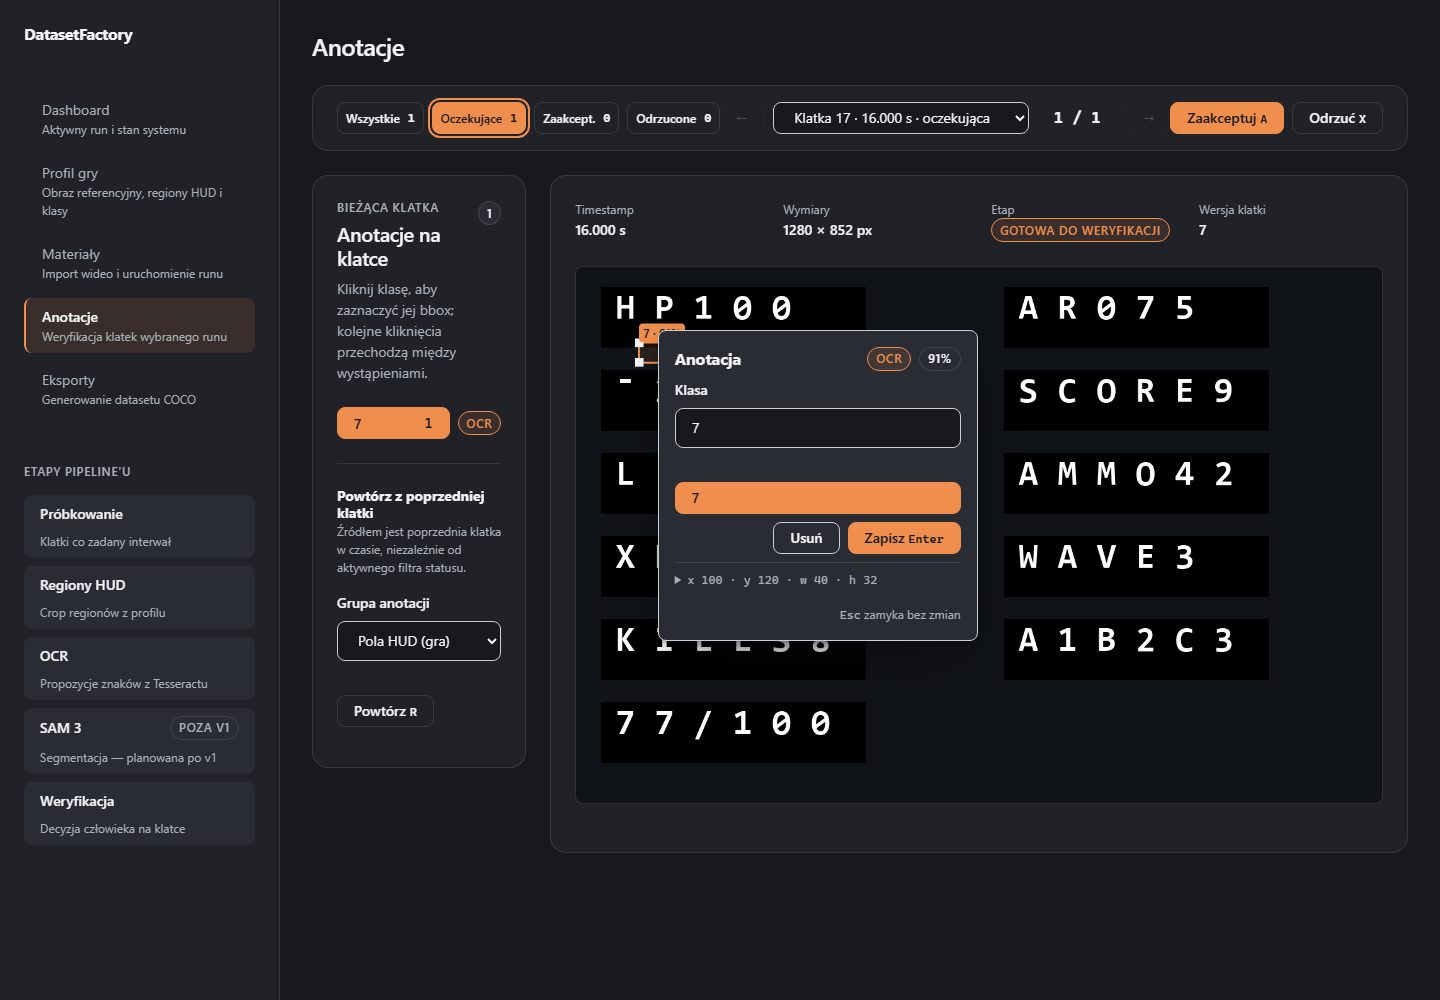
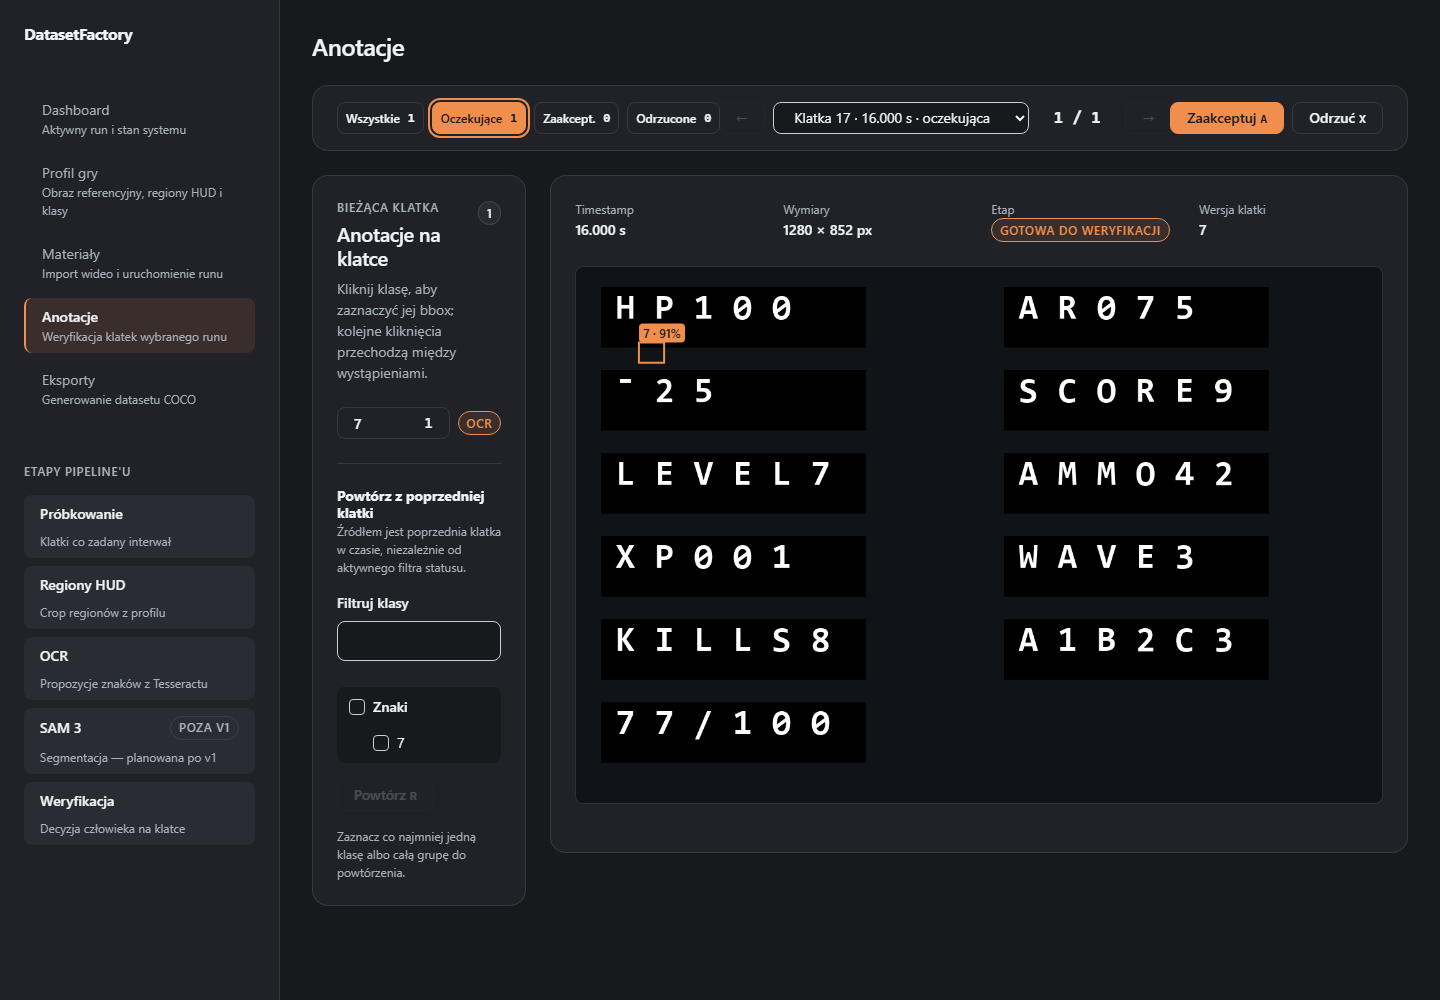
test(fe-008): refresh annotation visual qa

diff --git a/docs/tickets/FE-008/log.md b/docs/tickets/FE-008/log.md
@@ -149,5 +149,19 @@ a niepoprawna pozycja listy przerywa całość przed pierwszym zapisem.
 - F4 potwierdzone przez zleceniodawcę: struktura grupowana w popoverze nowego
   boxa, bez wstępnie wpisanej wartości, zapis nieaktywny do wyboru klasy.
 - Zrzuty visual QA odświeżone po całości — ekran zmienia wygląd w F1–F4.
-</content>
-</invoke>
+
+## Bramka końcowa — 2026-09-04
+
+- Pierwsza próba zatrzymała się w preflight przed bramką 1: w worktree brakowało
+  lokalnego, ignorowanego przez Git pliku `.env`; wszystkie 9 bramek zostało
+  pominiętych. Skopiowano konfigurację z głównego worktree i uruchomiono
+  `scripts/bootstrap.ps1` (zależności z lockfile, Chromium, 0 luk npm).
+- Następnie wykonano jeden nieprzerwany przebieg dokładnie komendą
+  `powershell.exe -NoProfile -ExecutionPolicy Bypass -File scripts/check.ps1`.
+- Wynik: 9/9 zielonych bramek — backend format 254 pliki, lint 0 błędów,
+  mypy 0 błędów w 99 plikach, pytest 347/347, frontend typecheck 0 błędów,
+  Vitest 547/547 w 40 plikach, build 0 błędów, Playwright Chromium 4/4,
+  E2E root safety 2/2.
+- Świadomie obejrzano odświeżony `annotations-1440.png` w pełnej rozdzielczości:
+  hierarchia grupy i klasy, fokus, licznik, akcja oraz brak przepełnienia są
+  czytelne. Pozostałe deterministyczne zrzuty nie zmieniły się.
